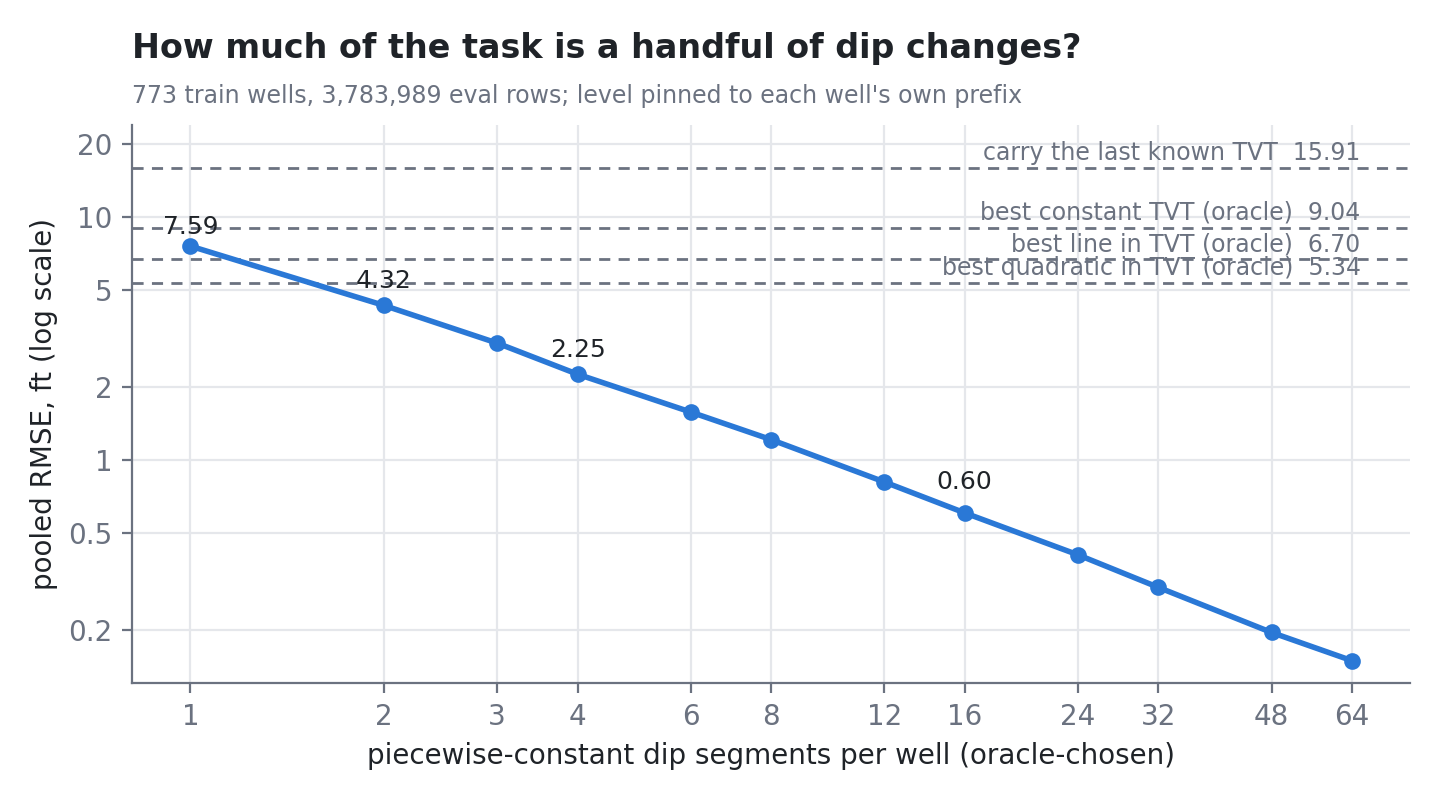
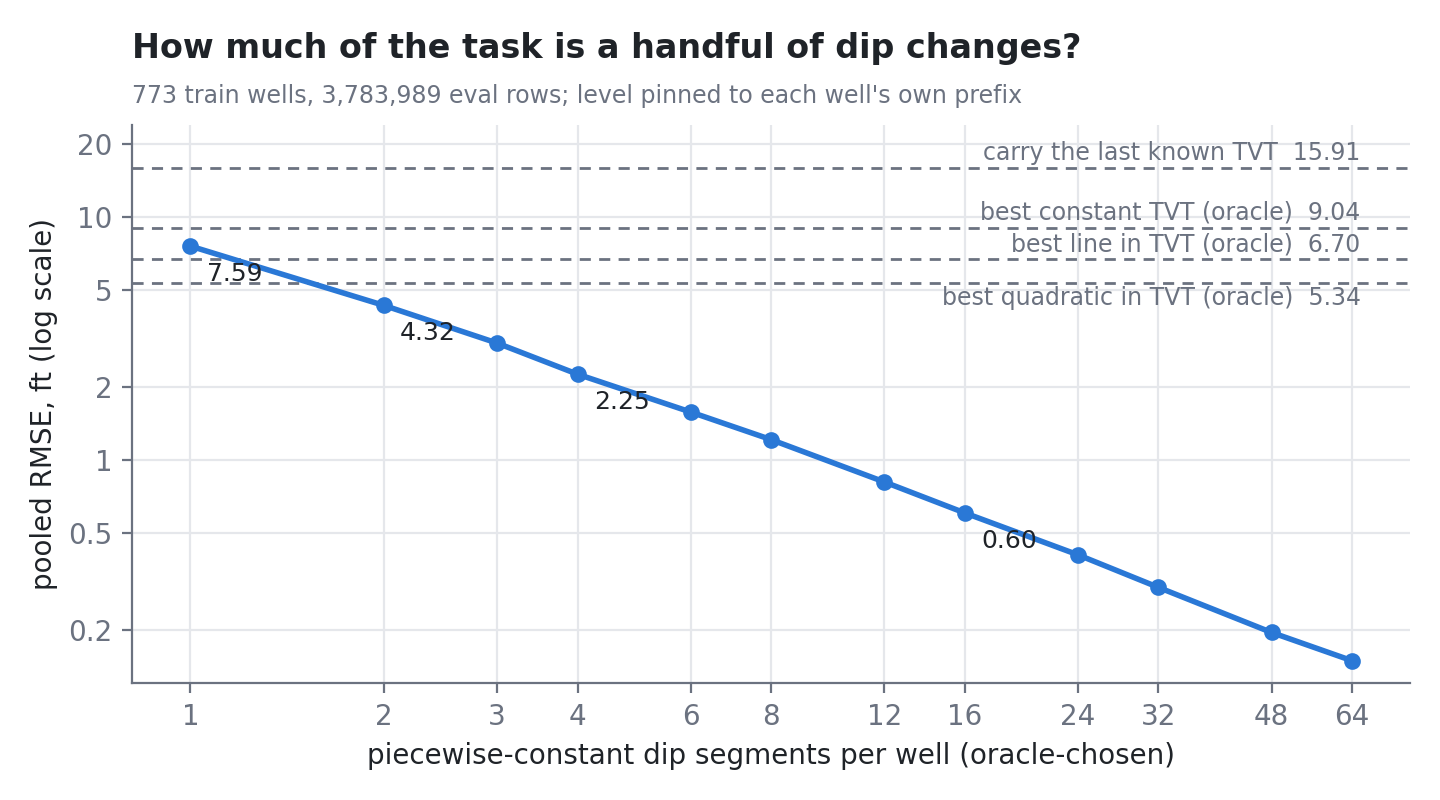
Add pipeline diagram; tidy figure labels

diff --git a/scripts/08_make_figures.py b/scripts/08_make_figures.py
@@ -43,11 +43,12 @@ def fig_dip_ladder():
             ("best quadratic in TVT (oracle)", d["oracle_tvt_quadratic"])]
     for name, y in refs:
         ax.axhline(y, color=MUTED, lw=1, ls=(0, (4, 3)), zorder=1)
-        ax.text(66, y * 1.03, f"{name}  {y:.2f}", ha="right", va="bottom",
-                fontsize=8.5, color=MUTED)
-    for x, y, dy in ((1, v[0], 1.12), (2, v[1], 1.18), (4, v[3], 1.18), (16, v[7], 1.25)):
-        ax.annotate(f"{y:.2f}", (x, y), (x, y * dy), ha="center", fontsize=9,
-                    color=INK)
+        below = name.startswith("best quadratic")
+        ax.text(66, y * (0.97 if below else 1.03), f"{name}  {y:.2f}", ha="right",
+                va="top" if below else "bottom", fontsize=8.5, color=MUTED)
+    for x, y in ((1, v[0]), (2, v[1]), (4, v[3]), (16, v[7])):
+        ax.annotate(f"{y:.2f}", (x, y), (x * 1.06, y * 0.86), ha="left", va="top",
+                    fontsize=9, color=INK)
     ax.set_xscale("log"); ax.set_yscale("log")
     ax.set_xticks(k); ax.set_xticklabels([str(x) for x in k])
     ax.set_yticks([0.2, 0.5, 1, 2, 5, 10, 20])

diff --git a/README.md b/README.md
@@ -217,6 +217,21 @@ export ROGII_DATA=$PWD/data                                   # or leave it in .
 
 ## What is and is not original
 
+```mermaid
+flowchart LR
+    A["known prefix<br/>+ type-well GR"] --> B["per-well particle-filter track<br/>(public notebooks)"]
+    A --> C["pretrained learned track<br/>(third-party dataset)"]
+    B --> D["blend, weight 0.60"]
+    C --> D
+    D --> E["delta corrector"]
+    E --> F["neighbour correction<br/>(added)"]
+    F --> G["smoothing in U = TVT + Z<br/>(added)"]
+    G --> H["TVT predictions"]
+```
+
+*Simplified view of the submitted pipeline. The two upstream tracks and the blend come from the public
+notebooks; the neighbour correction and the choice to smooth in `U` were added here.*
+
 The submitted pipeline was built on the public community notebooks for this competition, which combine a
 per-well particle-filter track with a pretrained learned track from a third-party dataset. I did not
 write those parts and they are not included. What this repository contains is my own analysis of the problem and
